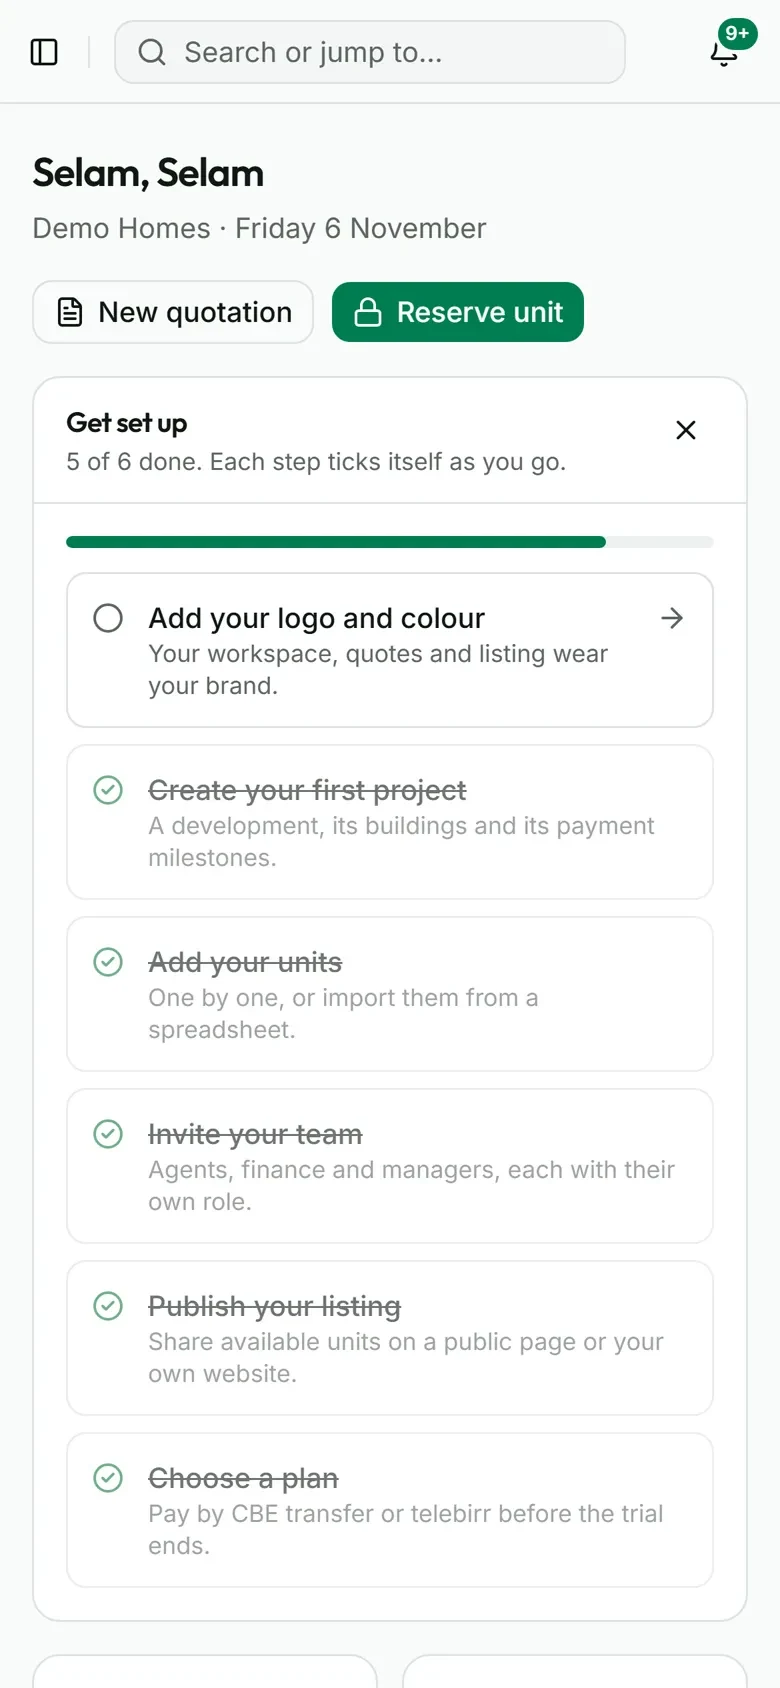
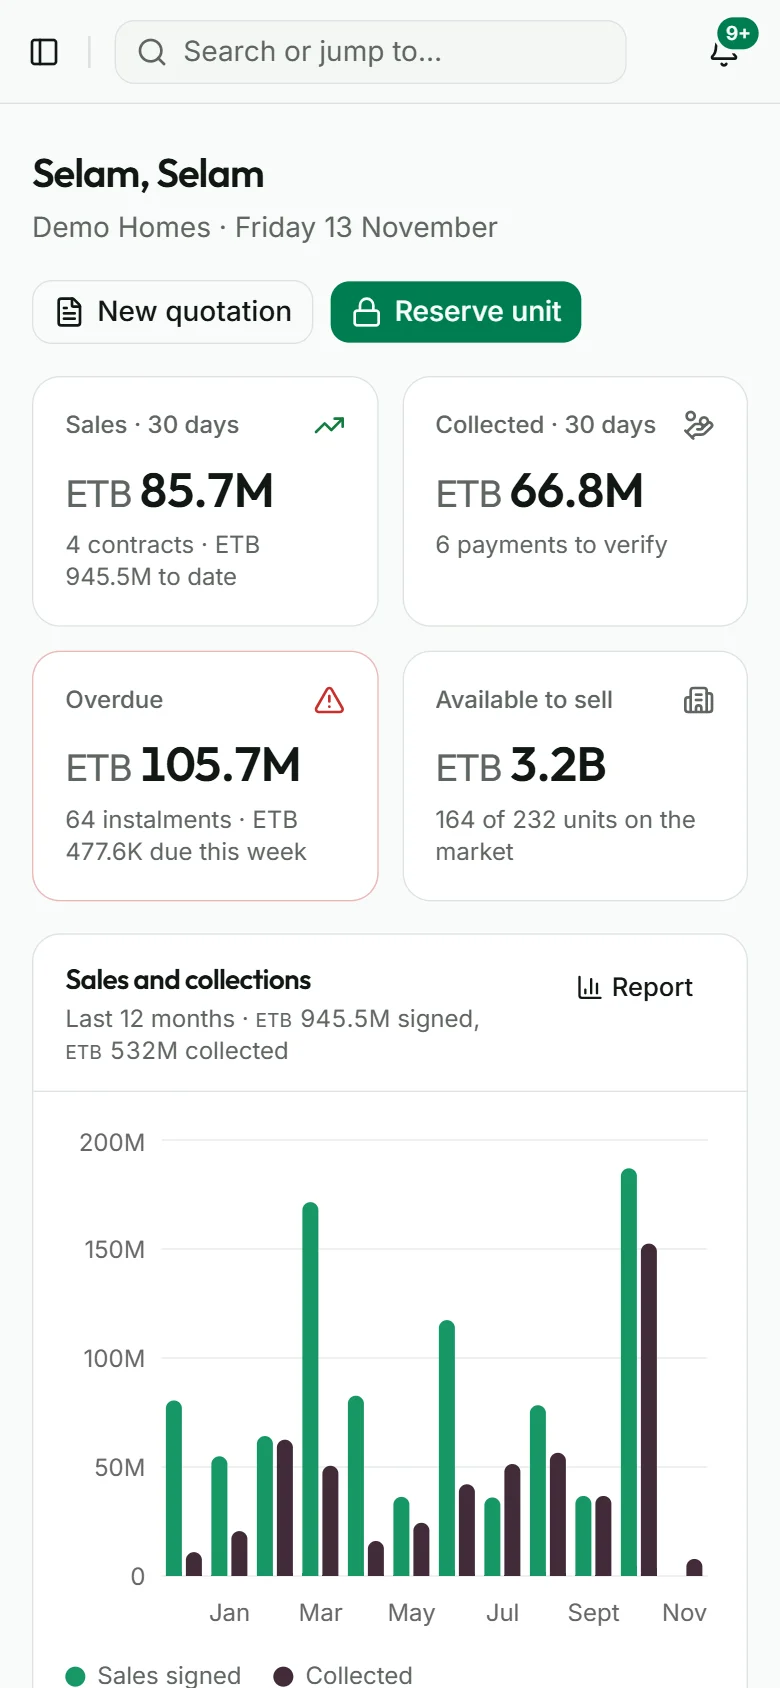
Versa Estate: all nine demo screens at 2x, paid plans only
Recaptured every still from the public demo at 2880x1800 (phone 780x1688)
so they stay sharp on high-density screens, and gave each feature its own
screen. Removed every mention of a free trial: Versa Estate is paid plans
only.

diff --git a/src/content/projects/versa-estate.ts b/src/content/projects/versa-estate.ts
@@ -2,21 +2,21 @@ import { defineProject } from '../schema';
 import { VERSA_ESTATE } from '../product-names';
 
 // The real estate CRM (repo versalabs-crm). Launched 2026-11-12: a public landing at estate.versalabs-studio.com
-// (product-sites.ts), self-serve sign-up with a 14-day free trial, and a public demo on a fictional company that
-// needs no account and resets every night. Every claim comes from the launched landing page.
+// (product-sites.ts), paid plans only (no free trial, Kidus 2026-11-13), and a public demo on a fictional company
+// that needs no account and resets every night. Every claim comes from the launched landing page.
 // Kept off this page on purpose:
 // - any client's name, and any claim to have one (there is none to name yet);
 // - prices: the plans are Starter, Growth and Enterprise, and a buyer picks one and then talks to us;
 // - receipts of any kind (the software records receipts and never issues them).
-// Stills: the landing's own captures of the demo company "Demo Homes". Only three passed the image review
-// (docs/04-CONTENT-MANAGEMENT.md §2): the others show realistic buyer and tenant names with phone numbers or payment
-// references. The signed-in demo user's name and email were painted out of the stacking plan's sidebar.
+// Stills: captured 2026-11-13 from the public demo company "Demo Homes" at 1440x900 (phone 390x844), both at 2x.
+// Every name, phone number and figure in them is the demo's made-up data, cleared by Kidus on 2026-11-13. The
+// demo's banner (which offers a trial) and the dashboard's set-up checklist were hidden before each capture.
 export default defineProject({
   slug: "versa-estate",
   title: VERSA_ESTATE,
   subtitle: "Sell Homes and Lease Space From One Place",
   tagline: "Real estate sales and leasing",
-  summary: "A real estate CRM for developers who sell homes and lease commercial space, from the first inquiry to the last instalment and the next rent bill. Try the demo, or start a 14-day free trial.",
+  summary: "A real estate CRM for developers who sell homes and lease commercial space, from the first inquiry to the last instalment and the next rent bill. Try the demo with no sign-up.",
   category: "Real Estate",
   tags: ["Real Estate", "Property Sales", "Off-Plan Sales", "Leasing", "CRM"],
   year: "2026",
@@ -29,21 +29,27 @@ export default defineProject({
   scope: ["Units", "Buyers", "Collections", "Leases"],
   cover: "/images/versa-estate/screen-stacking-plan-desktop.webp",
   gallery: [
-    { src: "/images/versa-estate/screen-stacking-plan-desktop.webp", alt: "Versa Estate stacking plan for the fictional Demo Homes company: a building's units floor by floor, each coloured by whether it is available, on hold, reserved, sold or leased", kind: "screen", width: 1600, height: 1000, reviewed: true },
+    { src: "/images/versa-estate/screen-stacking-plan-desktop.webp", alt: "Versa Estate stacking plan for the fictional Demo Homes company: a building's units floor by floor, each coloured by whether it is available, on hold, reserved, sold or leased", kind: "screen", width: 2880, height: 1800, reviewed: true },
+    { src: "/images/versa-estate/screen-dashboard-desktop.webp", alt: "Versa Estate dashboard for the fictional Demo Homes company: sales, money collected, overdue instalments and units for sale, with the date in the Ethiopian calendar beside the Gregorian one", kind: "screen", width: 2880, height: 1800, reviewed: true },
+    { src: "/images/versa-estate/screen-pipeline-desktop.webp", alt: "Versa Estate sales pipeline on demo data: buyers on a board from new to negotiation, each with the unit, the deal value and the next follow-up", kind: "screen", width: 2880, height: 1800, reviewed: true },
+    { src: "/images/versa-estate/screen-contract-desktop.webp", alt: "Versa Estate sale contract on demo data: a payment plan split between the buyer's own contribution and a bank loan, with a verified telebirr payment", kind: "screen", width: 2880, height: 1800, reviewed: true },
+    { src: "/images/versa-estate/screen-receivables-desktop.webp", alt: "Versa Estate receivables on demo data: what buyers and tenants still owe, grouped by how late it is", kind: "screen", width: 2880, height: 1800, reviewed: true },
+    { src: "/images/versa-estate/screen-lease-desktop.webp", alt: "Versa Estate commercial lease on demo data: quarterly rent and service-charge bills, the deposit held, 15% VAT and a yearly increase", kind: "screen", width: 2880, height: 1800, reviewed: true },
+    { src: "/images/versa-estate/screen-reports-desktop.webp", alt: "Versa Estate sales report on demo data: contracts signed by month and by building, ready to print or download", kind: "screen", width: 2880, height: 1800, reviewed: true },
+    { src: "/images/versa-estate/screen-dashboard-mobile.webp", alt: "Versa Estate dashboard on a phone for the fictional Demo Homes company", kind: "screen", width: 780, height: 1688, reviewed: true },
     { src: "/images/versa-estate/screen-units-mobile.webp", alt: "Versa Estate units list on a phone: counts by status, filters, and each unit's list price in birr", kind: "screen", width: 780, height: 1688, reviewed: true },
-    { src: "/images/versa-estate/screen-dashboard-mobile.webp", alt: "Versa Estate dashboard on a phone for the fictional Demo Homes company, with the steps to set up a new workspace", kind: "screen", width: 780, height: 1688, reviewed: true },
   ],
-  availability: "Available now. Start a 14-day free trial with no card, or open the demo with no sign-up. Pick a plan, Starter, Growth or Enterprise, then talk to us.",
+  availability: "Available now. Open the demo with no sign-up, then pick a plan, Starter, Growth or Enterprise, and talk to us.",
 
-  description: `${VERSA_ESTATE} is a real estate CRM for developers in Ethiopia who sell homes and lease commercial space. It runs the whole path from the first inquiry to the last instalment, and on the commercial side from the lease to the rent bill, meter readings and repairs. Each developer gets its own workspace. You can sign up for a free trial yourself, or try the demo on a made-up company first.`,
+  description: `${VERSA_ESTATE} is a real estate CRM for developers in Ethiopia who sell homes and lease commercial space. It runs the whole path from the first inquiry to the last instalment, and on the commercial side from the lease to the rent bill, meter readings and repairs. Each developer gets its own workspace. Try the demo on a made-up company first, then pick a plan and talk to us.`,
   need: "A developer selling homes has to know which units are free, who has been promised what, and which instalments are due and paid, while its commercial floors need leases, rent bills and repairs kept in order.",
   audience: "Property developers in Ethiopia who sell homes, often off-plan, and lease shops and offices. It has roles for sales agents and managers, finance, leasing managers, admins and owners, and viewers who can only look.",
   features: [
     { title: "See Every Unit, Sell It Only Once", image: "/images/versa-estate/screen-stacking-plan-desktop.webp", description: "A stacking plan shows every unit floor by floor, coloured by its status. A unit holds one reservation at a time, and an expired hold ends on its own." },
-    { title: "Follow Every Buyer to a Signed Deal", description: "A buyer pipeline with quotations, site visits on the team's agenda, and inquiries that come straight in from your web listing." },
-    { title: "Payment Plans That Follow the Build", description: "Contracts with payment plans tied to construction stages, handover and the share the buyer's bank loan pays." },
-    { title: "Collections You Can Trust", description: "Each payment is checked against its CBE, telebirr or bank reference before it counts, and receivables age at 30, 60 and 90 days." },
-    { title: "Lease and Maintain in the Same Place", description: "Rent and service-charge bills, yearly increases, deposits, meter readings, renewals and repairs for every lease." },
-    { title: "Made for Ethiopia", description: "Birr and the Ethiopian calendar, warnings drawn from the 2024 residential rent law, 15% VAT by default on commercial leases, and Amharic names and notes. It works on a phone, reports print to PDF or CSV, and your units and contacts import from a spreadsheet." },
+    { title: "Follow Every Buyer to a Signed Deal", image: "/images/versa-estate/screen-pipeline-desktop.webp", description: "A buyer pipeline with quotations, site visits on the team's agenda, and inquiries that come straight in from your web listing." },
+    { title: "Payment Plans That Follow the Build", image: "/images/versa-estate/screen-contract-desktop.webp", description: "Contracts with payment plans tied to construction stages, handover and the share the buyer's bank loan pays." },
+    { title: "Collections You Can Trust", image: "/images/versa-estate/screen-receivables-desktop.webp", description: "Each payment is checked against its CBE, telebirr or bank reference before it counts, and receivables age at 30, 60 and 90 days." },
+    { title: "Lease and Maintain in the Same Place", image: "/images/versa-estate/screen-lease-desktop.webp", description: "Rent and service-charge bills, yearly increases, deposits, meter readings, renewals and repairs for every lease." },
+    { title: "Made for Ethiopia", image: "/images/versa-estate/screen-dashboard-desktop.webp", description: "Birr and the Ethiopian calendar, warnings drawn from the 2024 residential rent law, 15% VAT by default on commercial leases, and Amharic names and notes. It works on a phone, reports print to PDF or CSV, and your units and contacts import from a spreadsheet." },
   ],
 });

diff --git a/src/app/about/page.tsx b/src/app/about/page.tsx
@@ -23,7 +23,7 @@ export const metadata = pageMetadata({
 const OFFERS = [
   {
     title: 'Our Products',
-    text: `Business software of our own. ${VERSA_ESTATE}, for real estate developers, is out now with a free trial. Versa FX, for forex bureaus, is open as a live demo, and ${VERSA_OPS} and ${VERSA_RENT} are coming soon.`,
+    text: `Business software of our own. ${VERSA_ESTATE}, for real estate developers, is out now. Versa FX, for forex bureaus, is open as a live demo, and ${VERSA_OPS} and ${VERSA_RENT} are coming soon.`,
     href: '/products',
     link: 'See Our Products',
   },
@@ -59,7 +59,7 @@ const MILESTONES = [
   { year: '2023', event: 'VersaLabs Studio founded in Addis Ababa' },
   { year: '2025', event: 'Pavilion360 website built for an event production company in Indianapolis' },
   { year: '2025', event: "OSKAZ online store launched, built on the company's business system" },
-  { year: '2026', event: `${VERSA_ESTATE} launched for real estate developers, with a free trial` },
+  { year: '2026', event: `${VERSA_ESTATE} launched for real estate developers` },
   { year: '2026', event: `Our own products, coming soon: ${VERSA_OPS}, ${VERSA_RENT} and VersaLabs ADE` },
 ];
 
